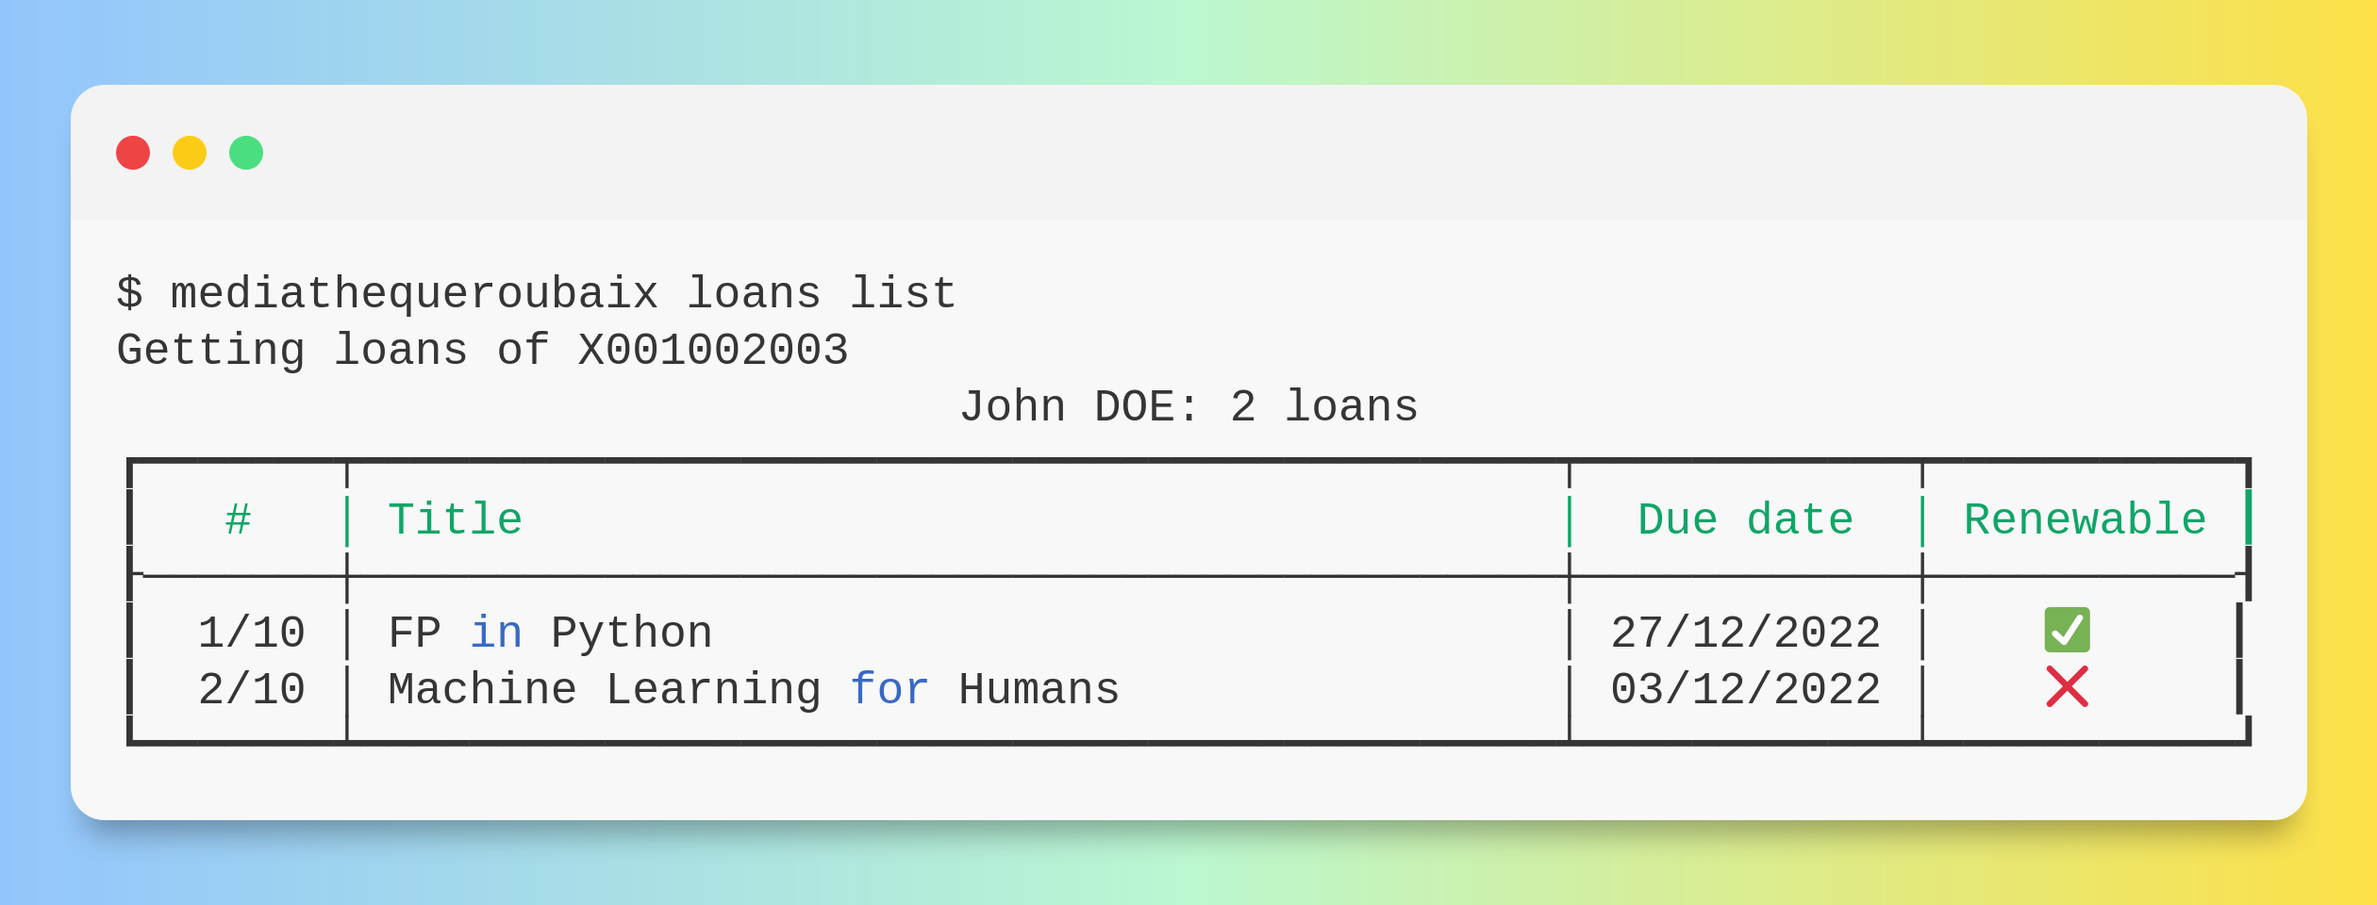
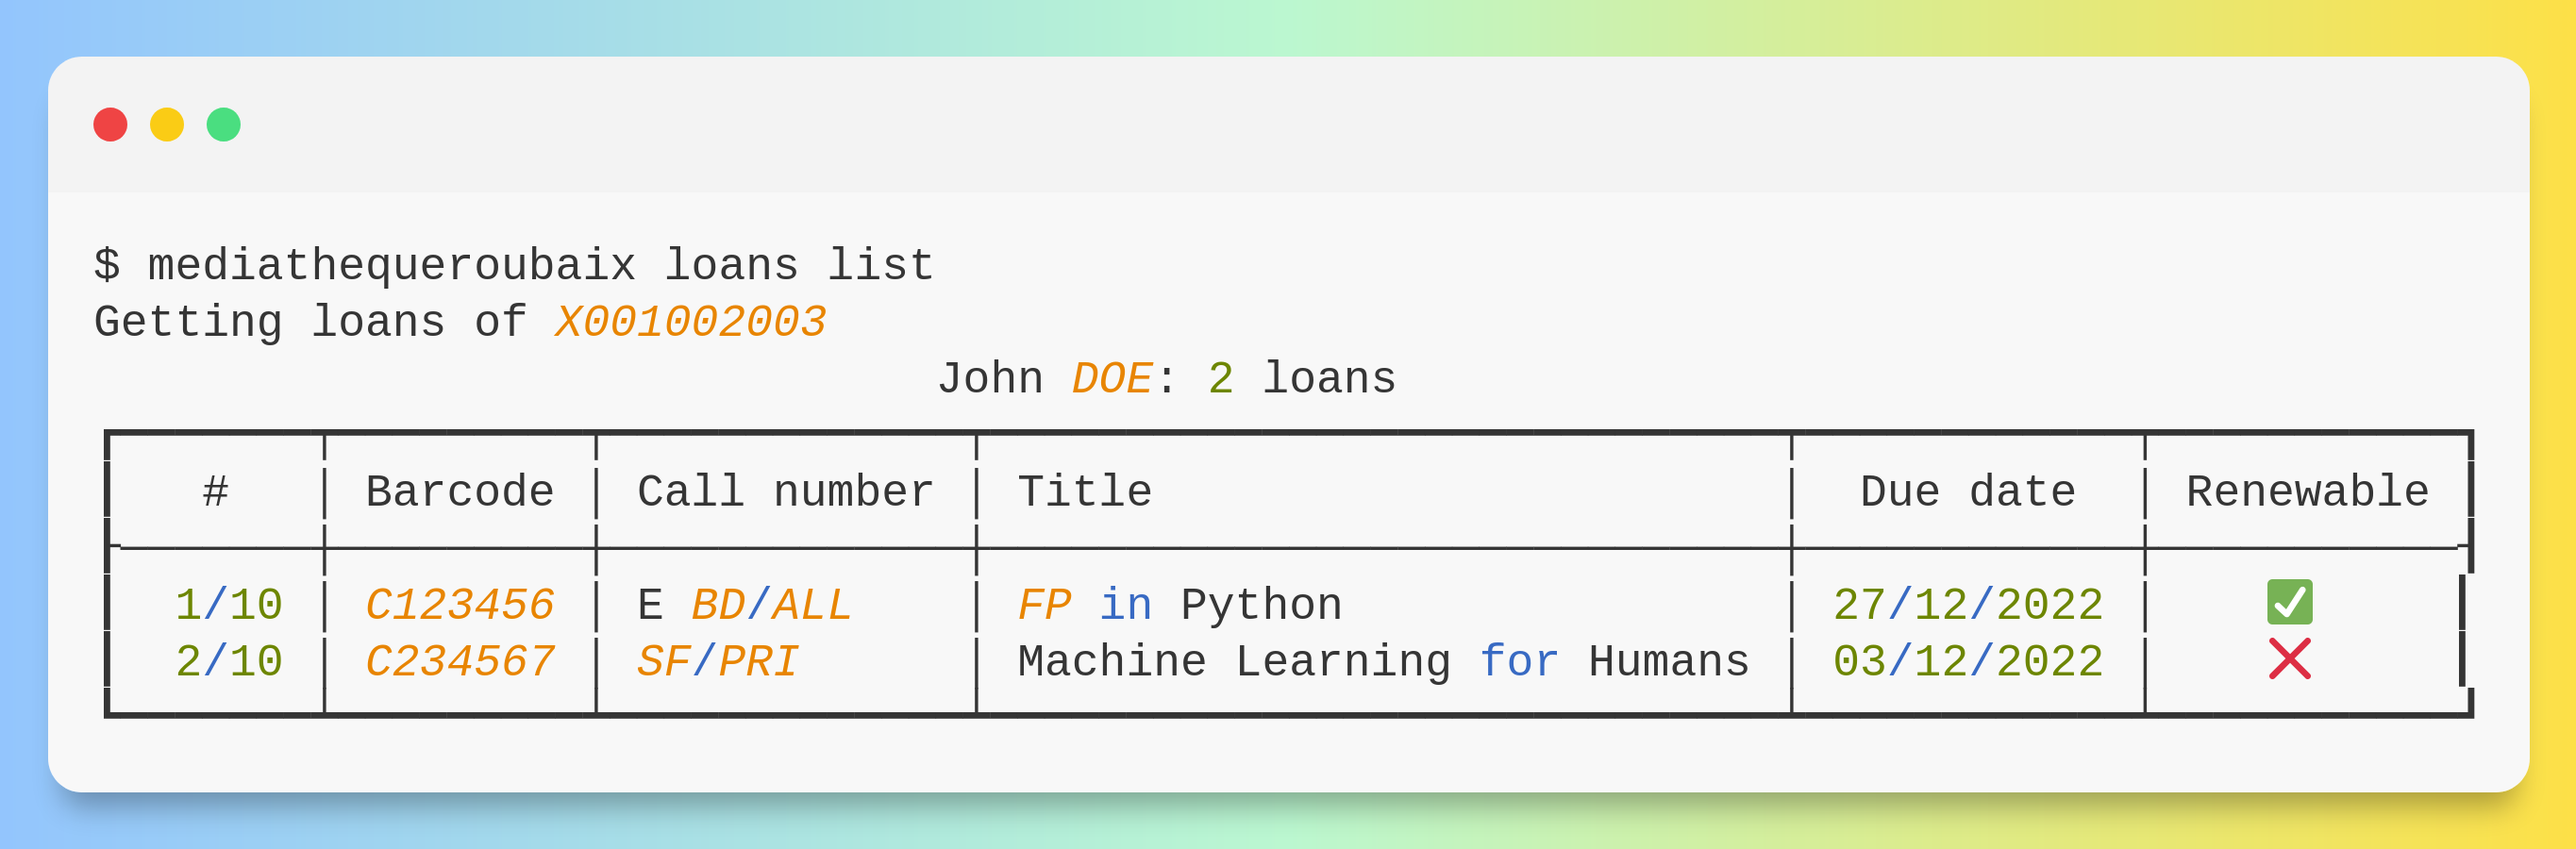
doc: update screenshots

Changed region(s): [[0.0, 0.0622, 0.9905, 0.9644], [0.3714, 0.4044, 0.619, 0.4667]]

diff --git a/doc/cli_commands_output.md b/doc/cli_commands_output.md
@@ -36,12 +36,12 @@ Config: /home/johndoe/.config/mediathequeroubaix/config.json
 $ mediathequeroubaix loans list
 Getting loans of X001002003
                                John DOE: 2 loans
-┏━━━━━━━┯━━━━━━━━━━━━━━━━━━━━━━━━━━━━━━━━━━━━━━━━━━━━┯━━━━━━━━━━━━┯━━━━━━━━━━━┓
-┃   #   │ Title                                      │  Due date  │ Renewable ┃
-┠───────┼────────────────────────────────────────────┼────────────┼───────────┨
-┃  1/10 │ FP in Python                               │ 27/12/2022 │    ✅     ┃
-┃  2/10 │ Machine Learning for Humans                │ 03/12/2022 │    ❌     ┃
-┗━━━━━━━┷━━━━━━━━━━━━━━━━━━━━━━━━━━━━━━━━━━━━━━━━━━━━┷━━━━━━━━━━━━┷━━━━━━━━━━━┛
+┏━━━━━━━┯━━━━━━━━━┯━━━━━━━━━━━━━┯━━━━━━━━━━━━━━━━━━━━━━━━━━━━━┯━━━━━━━━━━━━┯━━━━━━━━━━━┓
+┃   #   │ Barcode │ Call number │ Title                       │  Due date  │ Renewable ┃
+┠───────┼─────────┼─────────────┼─────────────────────────────┼────────────┼───────────┨
+┃  1/10 │ C123456 │ E BD/ALL    │ FP in Python                │ 27/12/2022 │    ✅     ┃
+┃  2/10 │ C234567 │ SF/PRI      │ Machine Learning for Humans │ 03/12/2022 │    ❌     ┃
+┗━━━━━━━┷━━━━━━━━━┷━━━━━━━━━━━━━┷━━━━━━━━━━━━━━━━━━━━━━━━━━━━━┷━━━━━━━━━━━━┷━━━━━━━━━━━┛
 ```
 
 ```shell
@@ -49,10 +49,10 @@ $ mediathequeroubaix loans renew
 Renewing loans of user 'X001002003'
 Will renew 1 loans for John Doe
                                John DOE: 2 loans
-┏━━━━━━━┯━━━━━━━━━━━━━━━━━━━━━━━━━━━━━━━━━━━━━━━━━━━━┯━━━━━━━━━━━━┯━━━━━━━━━━━┓
-┃   #   │ Title                                      │  Due date  │ Renewable ┃
-┠───────┼────────────────────────────────────────────┼────────────┼───────────┨
-┃  1/10 │ FP in Python                               │ 17/01/2023 │    ❌     ┃
-┃  2/10 │ Machine Learning for Humans                │ 03/12/2022 │    ❌     ┃
-┗━━━━━━━┷━━━━━━━━━━━━━━━━━━━━━━━━━━━━━━━━━━━━━━━━━━━━┷━━━━━━━━━━━━┷━━━━━━━━━━━┛
+┏━━━━━━━┯━━━━━━━━━┯━━━━━━━━━━━━━┯━━━━━━━━━━━━━━━━━━━━━━━━━━━━━┯━━━━━━━━━━━━┯━━━━━━━━━━━┓
+┃   #   │ Barcode │ Call number │ Title                       │  Due date  │ Renewable ┃
+┠───────┼─────────┼─────────────┼─────────────────────────────┼────────────┼───────────┨
+┃  1/10 │ C123456 │ E BD/ALL    │ FP in Python                │ 17/01/2023 │    ❌     ┃
+┃  2/10 │ C234567 │ SF/PRI      │ Machine Learning for Humans │ 03/12/2022 │    ❌     ┃
+┗━━━━━━━┷━━━━━━━━━┷━━━━━━━━━━━━━┷━━━━━━━━━━━━━━━━━━━━━━━━━━━━━┷━━━━━━━━━━━━┷━━━━━━━━━━━┛
 ```
